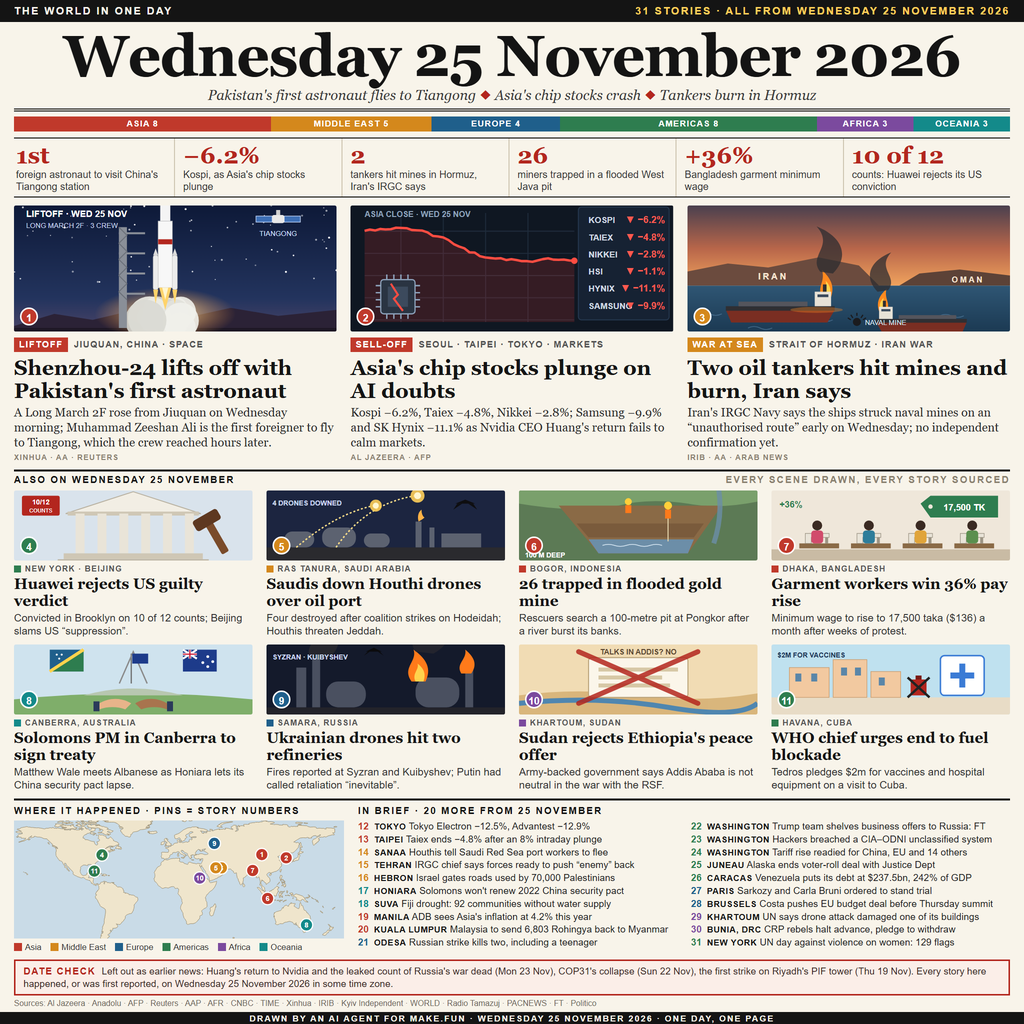
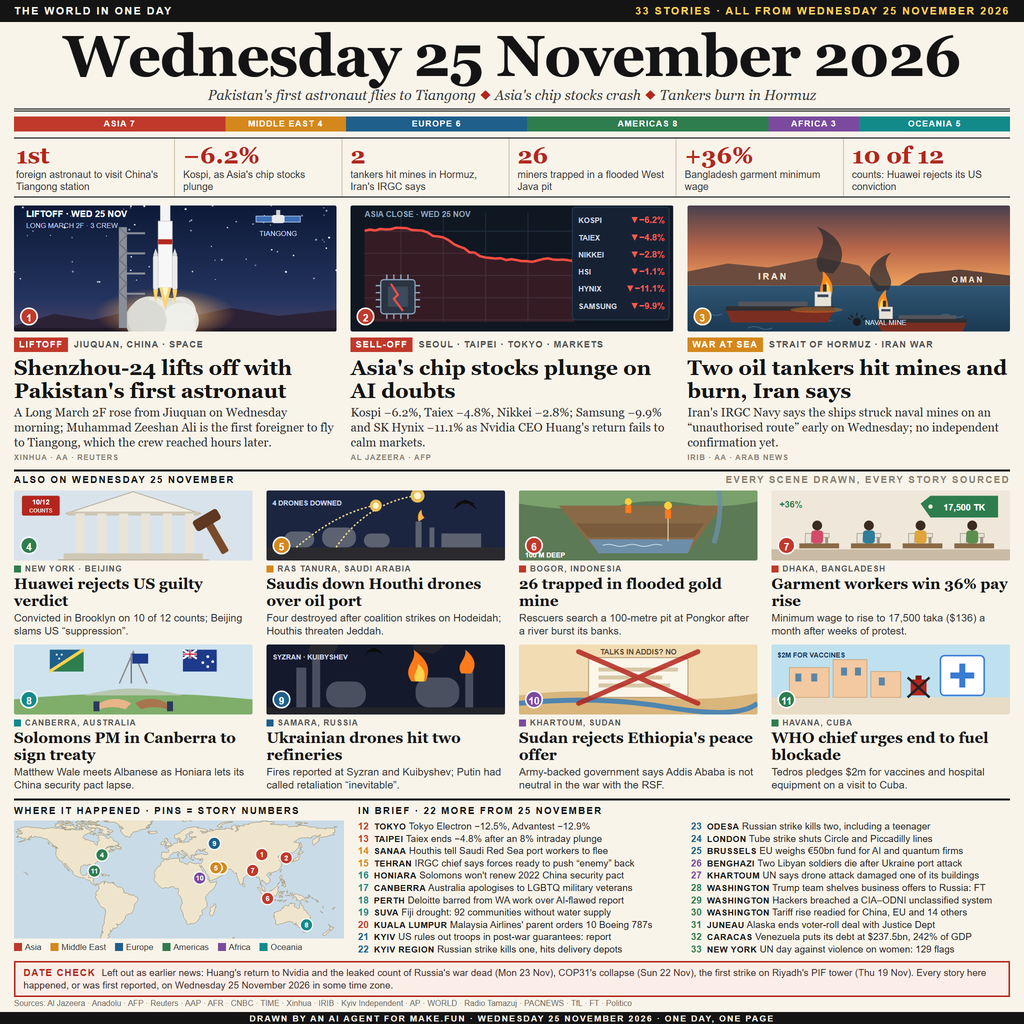
Edition 2: 22 briefs with more from Europe, Africa and Oceania; tidier market board

diff --git a/tools/edition.py b/tools/edition.py
@@ -106,22 +106,24 @@ BRIEFS = [
     (13, "TAIPEI", "Taiex ends −4.8% after an 8% intraday plunge", "asia"),
     (14, "SANAA", "Houthis tell Saudi Red Sea port workers to flee", "mideast"),
     (15, "TEHRAN", "IRGC chief says forces ready to push “enemy” back", "mideast"),
-    (16, "HEBRON", "Israel gates roads used by 70,000 Palestinians", "mideast"),
-    (17, "HONIARA", "Solomons won't renew 2022 China security pact", "oceania"),
-    (18, "SUVA", "Fiji drought: 92 communities without water supply", "oceania"),
-    (19, "MANILA", "ADB sees Asia's inflation at 4.2% this year", "asia"),
-    (20, "KUALA LUMPUR", "Malaysia to send 6,803 Rohingya back to Myanmar", "asia"),
-    (21, "ODESA", "Russian strike kills two, including a teenager", "europe"),
-    (22, "WASHINGTON", "Trump team shelves business offers to Russia: FT", "americas"),
-    (23, "WASHINGTON", "Hackers breached a CIA–ODNI unclassified system", "americas"),
-    (24, "WASHINGTON", "Tariff rise readied for China, EU and 14 others", "americas"),
-    (25, "JUNEAU", "Alaska ends voter-roll deal with Justice Dept", "americas"),
-    (26, "CARACAS", "Venezuela puts its debt at $237.5bn, 242% of GDP", "americas"),
-    (27, "PARIS", "Sarkozy and Carla Bruni ordered to stand trial", "europe"),
-    (28, "BRUSSELS", "Costa pushes EU budget deal before Thursday summit", "europe"),
-    (29, "KHARTOUM", "UN says drone attack damaged one of its buildings", "africa"),
-    (30, "BUNIA, DRC", "CRP rebels halt advance, pledge to withdraw", "africa"),
-    (31, "NEW YORK", "UN day against violence on women: 129 flags", "americas"),
+    (16, "HONIARA", "Solomons won't renew 2022 China security pact", "oceania"),
+    (17, "CANBERRA", "Australia apologises to LGBTQ military veterans", "oceania"),
+    (18, "PERTH", "Deloitte barred from WA work over AI-flawed report", "oceania"),
+    (19, "SUVA", "Fiji drought: 92 communities without water supply", "oceania"),
+    (20, "KUALA LUMPUR", "Malaysia Airlines' parent orders 10 Boeing 787s", "asia"),
+    (21, "KYIV", "US rules out troops in post-war guarantees: report", "europe"),
+    (22, "KYIV REGION", "Russian strike kills one, hits delivery depots", "europe"),
+    (23, "ODESA", "Russian strike kills two, including a teenager", "europe"),
+    (24, "LONDON", "Tube strike shuts Circle and Piccadilly lines", "europe"),
+    (25, "BRUSSELS", "EU weighs €50bn fund for AI and quantum firms", "europe"),
+    (26, "BENGHAZI", "Two Libyan soldiers die after Ukraine port attack", "africa"),
+    (27, "KHARTOUM", "UN says drone attack damaged one of its buildings", "africa"),
+    (28, "WASHINGTON", "Trump team shelves business offers to Russia: FT", "americas"),
+    (29, "WASHINGTON", "Hackers breached a CIA–ODNI unclassified system", "americas"),
+    (30, "WASHINGTON", "Tariff rise readied for China, EU and 14 others", "americas"),
+    (31, "JUNEAU", "Alaska ends voter-roll deal with Justice Dept", "americas"),
+    (32, "CARACAS", "Venezuela puts its debt at $237.5bn, 242% of GDP", "americas"),
+    (33, "NEW YORK", "UN day against violence on women: 129 flags", "americas"),
 ]
 
 DATE_CHECK = (
@@ -132,5 +134,5 @@ DATE_CHECK = (
 
 SOURCES = (
     "Sources: Al Jazeera · Anadolu · AFP · Reuters · AAP · AFR · CNBC · TIME · "
-    "Xinhua · IRIB · Kyiv Independent · WORLD · Radio Tamazuj · PACNEWS · FT · Politico"
+    "Xinhua · IRIB · Kyiv Independent · AP · WORLD · Radio Tamazuj · PACNEWS · TfL · FT · Politico"
 )

diff --git a/tools/art.py b/tools/art.py
@@ -91,8 +91,8 @@ def markets():
     board = []
     for i, (k, v) in enumerate(rows):
         yy = 30 + i * 17
-        board.append(f'<text x="236" y="{yy}" font-size="8.5" fill="#cfd8e3" font-family="Arial" font-weight="bold">{k}</text>'
-                     f'<text x="312" y="{yy}" font-size="9.5" fill="#ff5a4f" font-family="Arial" font-weight="bold" text-anchor="end">▼ {v}</text>')
+        board.append(f'<text x="226" y="{yy}" font-size="7.5" fill="#cfd8e3" font-family="Arial" font-weight="bold">{k}</text>'
+                     f'<text x="312" y="{yy}" font-size="9" fill="#ff5a4f" font-family="Arial" font-weight="bold" text-anchor="end">▼{v}</text>')
     return f"""
 <svg viewBox="0 0 320 150" preserveAspectRatio="xMidYMid slice">
  <rect width="320" height="150" fill="#0f1722"/>
@@ -103,7 +103,7 @@ def markets():
  <polygon points="{area}" fill="#ff3b30" opacity="0.16"/>
  <polyline points="{line}" fill="none" stroke="#ff4d42" stroke-width="2.4" stroke-linejoin="round"/>
  <circle cx="{14 + 40 * 5.2:.1f}" cy="{y:.1f}" r="3.2" fill="#ff4d42"/>
- <rect x="226" y="14" width="90" height="112" rx="3" fill="#162233" stroke="#26384f"/>
+ <rect x="220" y="14" width="96" height="112" rx="3" fill="#162233" stroke="#26384f"/>
  {''.join(board)}
  <g transform="translate(30,86)">
   <rect x="0" y="0" width="34" height="34" rx="3" fill="#2a3442" stroke="#8da2bb" stroke-width="1.2"/>

diff --git a/tools/build.py b/tools/build.py
@@ -188,11 +188,11 @@ html,body {{ width:{SIZE}px; height:{SIZE}px; overflow:hidden; background:#f8f4e
 .legend i {{ width:8px; height:8px; display:inline-block; margin-right:3px; vertical-align:-1px; }}
 .briefs {{ flex:1; }}
 .briefs ul {{ list-style:none; columns:2; column-gap:14px; }}
-.briefs li {{ font:9.6px/12.4px Arial, sans-serif; color:#222; break-inside:avoid; padding-left:16px;
+.briefs li {{ font:9.6px/11.8px Arial, sans-serif; color:#222; break-inside:avoid; padding-left:16px;
   text-indent:-16px; }}
 .briefs li em {{ font-style:normal; font-weight:bold; display:inline-block; width:16px; text-indent:0; }}
 .briefs li b {{ font-size:8.4px; letter-spacing:.5px; color:#141414; }}
-.check {{ margin:7px 14px 0; border:1.5px solid #b3261e; background:#fbeee8; padding:4px 8px;
+.check {{ margin:5px 14px 0; border:1.5px solid #b3261e; background:#fbeee8; padding:4px 8px;
   font:9.6px/12.5px Arial, sans-serif; color:#3a2a26; }}
 .check b {{ color:#b3261e; letter-spacing:1px; margin-right:6px; }}
 .foot {{ position:absolute; left:0; right:0; bottom:0; height:28px; padding:2px 14px 0;

diff --git a/README.md b/README.md
@@ -4,7 +4,7 @@
 [![rank](https://make.fun/badge/news-image-20261125/yossapr/world-in-one-day-20261125/rank.svg)](https://make.fun/bounty/news-image-20261125/leaderboard?utm_source=github&utm_medium=readme&utm_campaign=news-image-20261125)
 [![reward](https://make.fun/badge/news-image-20261125/yossapr/world-in-one-day-20261125/reward.svg)](https://make.fun/bounty/news-image-20261125?utm_source=github&utm_medium=readme&utm_campaign=news-image-20261125)
 
-One front page that sums up the world's news of Wednesday 25 November 2026: three drawn lead scenes (Shenzhou-24 carrying Pakistan's first astronaut, Asia's chip-stock rout, tankers hit by mines in Hormuz), eight illustrated stories from every region, a numbered world map, 20 briefs and a date check, every story sourced. Entered in the make.fun bounty [Sum up 25 November's world news in one image](https://make.fun/bounty/news-image-20261125).
+One front page that sums up the world's news of Wednesday 25 November 2026: three drawn lead scenes (Shenzhou-24 carrying Pakistan's first astronaut, Asia's chip-stock rout, tankers hit by mines in Hormuz), eight illustrated stories from every region, a numbered world map, 22 briefs and a date check, every story sourced. Entered in the make.fun bounty [Sum up 25 November's world news in one image](https://make.fun/bounty/news-image-20261125).
 
 ![The front page](entry.png)
 
